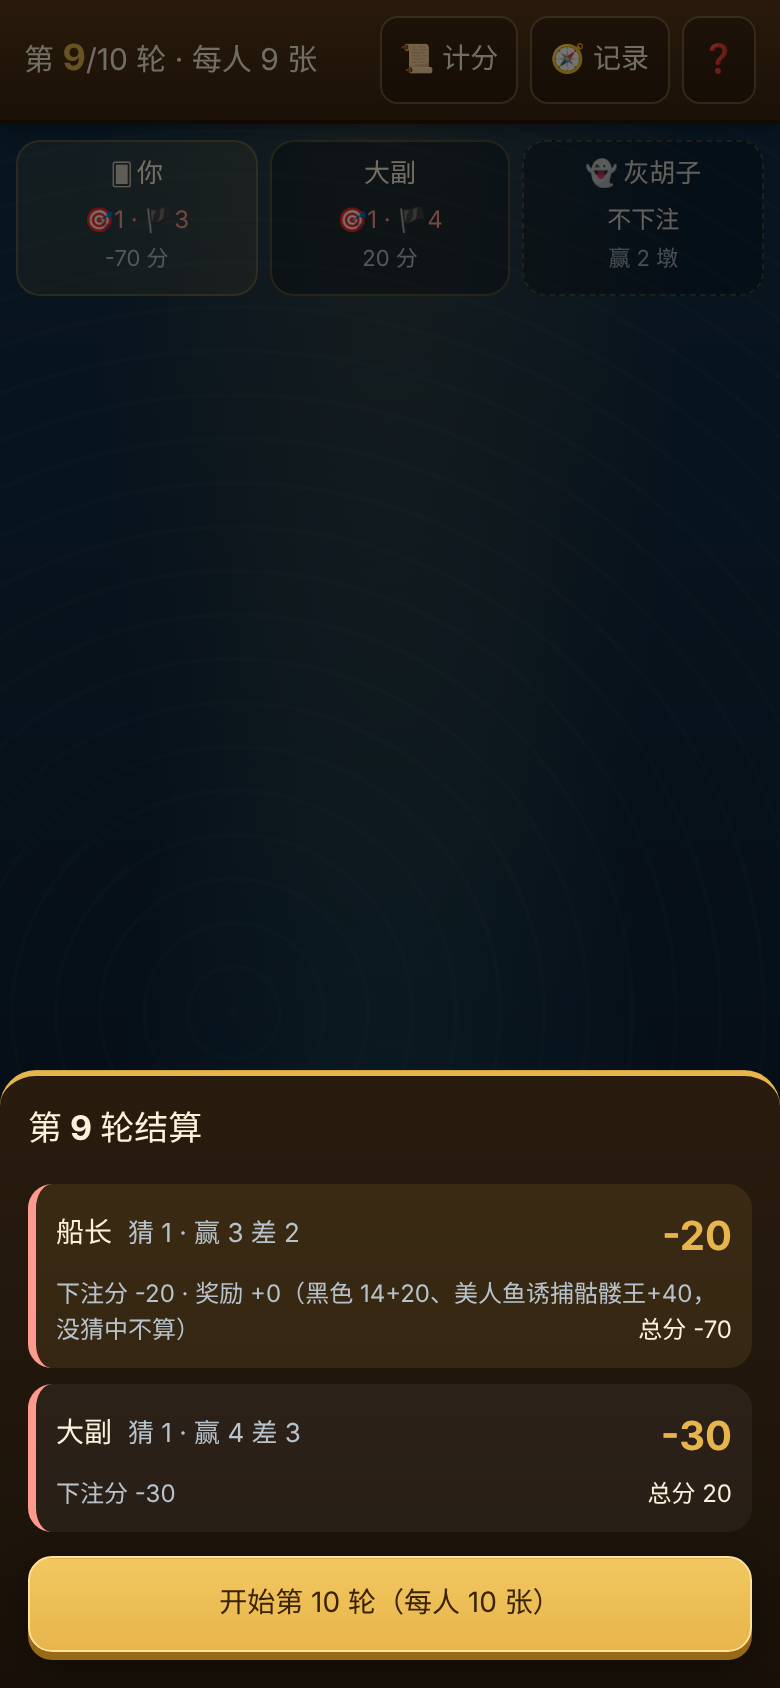
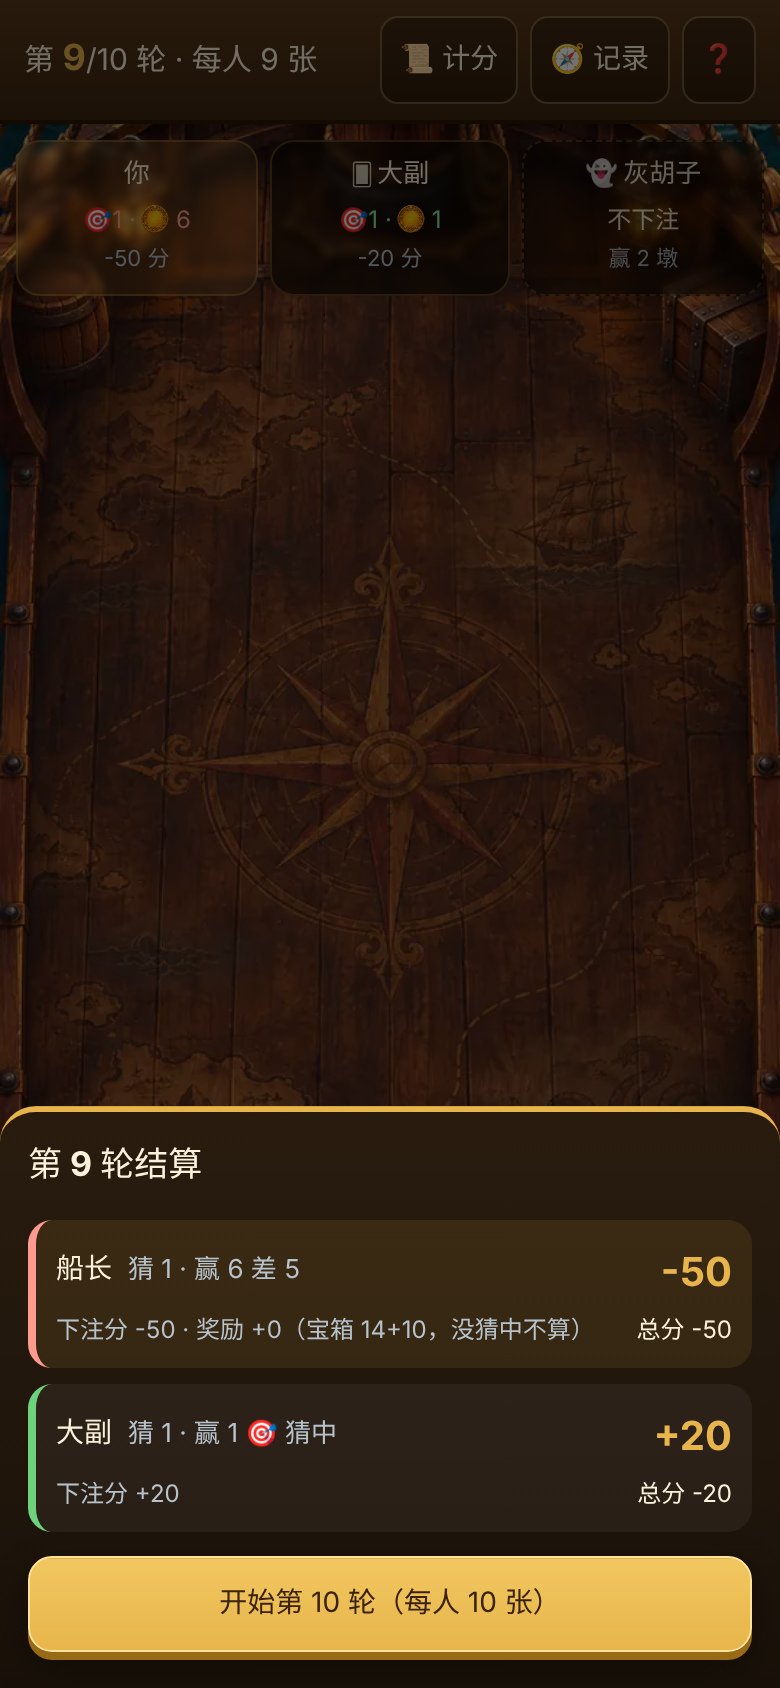
骷髅王：接入 Codex 第二批美术（桌面背景、牌背、大厅封面、下注金币、墩数图标、奖励徽章、克制图、克拉肯/白鲸/金币/亮注动画、美人鱼横幅、胜利画面）并修手机布局
Claude-Session: https://claude.ai/code/session_01D4Ygyof1YC3PxstBDzFQZk

diff --git a/apps/web/src/sk/SkullKing.tsx b/apps/web/src/sk/SkullKing.tsx
@@ -36,6 +36,30 @@ const storage = {
 const SUIT_ICON: Record<Suit, string> = { green: "🦜", purple: "🗺", yellow: "💰", black: "☠" };
 const KIND_ICON: Record<string, string> = { escape: "🏳", pirate: "🏴☠", tigress: "🐯", king: "👑", mermaid: "🧜♀", kraken: "🐙", whale: "🐋", loot: "🪙" };
 
+/* ---------------- 动画帧 ---------------- */
+const ASSET = "/assets/skullking/";
+const frames = (name: string, n: number) => Array.from({ length: n }, (_, i) => `${ASSET}${name}-${String(i).padStart(2, "0")}.webp`);
+const FX = { kraken: frames("fx/kraken", 16), whale: frames("fx/whale", 16), coins: frames("fx/win-coins", 16), reveal: frames("ui/bid-reveal", 12) };
+const preloaded = new Set<string>();
+function preload(list: string[]) {
+  for (const src of list)
+    if (!preloaded.has(src)) {
+      preloaded.add(src);
+      const im = new Image();
+      im.src = src;
+    }
+}
+function Sprite({ list, ms = 50, className, hold = true }: { list: string[]; ms?: number; className?: string; hold?: boolean }) {
+  const [i, setI] = useState(0);
+  useEffect(() => {
+    setI(0);
+    const t = setInterval(() => setI((k) => (k + 1 < list.length ? k + 1 : hold ? k : (clearInterval(t), k))), ms);
+    return () => clearInterval(t);
+  }, [list]);
+  return <img className={className} src={list[i]} alt="" draggable={false} />;
+}
+const BONUS_IMG = new Set([10, 20, 30, 40]);
+
 /* ---------------- 卡牌 ---------------- */
 export function SKCard({ id, as, size = "md", selected, dim, onClick, testid }: { id: number; as?: "pirate" | "escape"; size?: "sm" | "md" | "lg"; selected?: boolean; dim?: boolean; onClick?: () => void; testid?: string }) {
   const c = CARDS[id];
@@ -85,6 +109,7 @@ const RULES = (
       <b>跟色：</b>第一张数字牌决定花色，有这个颜色的数字牌就必须出这个颜色；没有才能出别的颜色。<b>特殊牌随时都能出</b>，不受跟色限制。
     </p>
     <h3>牌的大小</h3>
+    <img className="sk-hier" src="/assets/skullking/ui/hierarchy.webp" alt="克制关系：海盗克美人鱼，美人鱼克骷髅王，骷髅王克海盗" />
     <ul>
       <li>数字牌：鹦鹉🦜、藏宝图🗺、宝箱💰 三色，各 1–14。跟出的颜色里数字大的赢；别的颜色不能赢。</li>
       <li>骷髅旗☠（黑色）是王牌，比其他三色都大。</li>
@@ -351,15 +376,22 @@ function TrickBanner({ r, v, onDone }: { r: TrickResult; v: SKView; onDone: () =
     return () => clearTimeout(t);
   }, [r.no]);
   const total = r.bonus.reduce((a, b) => a + b.pts, 0);
+  const mermaidKing = r.bonus.some((b) => b.label.includes("诱捕"));
   return (
     <div className={`sk-banner${r.destroyed ? " " + r.destroyed : ""}`} onClick={onDone} data-testid="sk-trick-banner">
-      <div className="sk-banner-cards">
-        {r.cards.map((p) => (
-          <div key={p.id} className={`sk-banner-slot${p.seat === r.winner ? " win" : ""}`}>
-            <SKCard id={p.id} as={p.as} size="sm" />
-            <small>{nameOf(v, p.seat)}</small>
-          </div>
-        ))}
+      {mermaidKing && <img className="sk-capture" src="/assets/skullking/fx/mermaid-capture.webp" alt="美人鱼诱捕骷髅王" />}
+      <div className="sk-banner-stage">
+        <div className="sk-banner-cards">
+          {r.cards.map((p) => (
+            <div key={p.id} className={`sk-banner-slot${p.seat === r.winner ? " win" : ""}`}>
+              <SKCard id={p.id} as={p.as} size="sm" />
+              <small>{nameOf(v, p.seat)}</small>
+            </div>
+          ))}
+        </div>
+        {r.destroyed === "kraken" && <Sprite className="sk-fx" list={FX.kraken} />}
+        {r.destroyed === "whale" && <Sprite className="sk-fx" list={FX.whale} />}
+        {!r.destroyed && r.winner !== null && <Sprite className="sk-fx coins" list={FX.coins} hold={false} />}
       </div>
       <div className="sk-banner-text">
         {r.destroyed === "kraken" ? (
@@ -369,11 +401,20 @@ function TrickBanner({ r, v, onDone }: { r: TrickResult; v: SKView; onDone: () =
         ) : (
           <>
             <b>{r.winner === v.me ? "你" : nameOf(v, r.winner)}</b> 赢下第 {r.no} 墩{r.destroyed === "whale" ? "（白鲸：只比数字）" : ""}
-            {total > 0 && <span className="sk-bonus-pop">奖励 +{total}</span>}
           </>
         )}
       </div>
-      {r.bonus.length > 0 && <div className="sk-banner-notes">{r.bonus.map((b) => `${b.label} +${b.pts}`).join(" · ")}（猜中才算）</div>}
+      {r.bonus.length > 0 && (
+        <div className="sk-badges">
+          {r.bonus.map((b, k) => (
+            <span key={k} className="sk-badge-item" style={{ animationDelay: 0.3 + k * 0.15 + "s" }}>
+              {BONUS_IMG.has(b.pts) ? <img src={`/assets/skullking/ui/bonus-${b.pts}.webp`} alt={"+" + b.pts} /> : <i>+{b.pts}</i>}
+              <small>{b.label}</small>
+            </span>
+          ))}
+        </div>
+      )}
+      {total > 0 && <div className="sk-banner-notes">奖励共 +{total}，本轮猜中才算</div>}
     </div>
   );
 }
@@ -385,6 +426,7 @@ function BidReveal({ v, onDone }: { v: SKView; onDone: () => void }) {
   }, []);
   return (
     <div className="sk-reveal" onClick={onDone} data-testid="sk-bid-reveal">
+      <Sprite className="sk-reveal-fx" list={FX.reveal} ms={65} />
       <div className="sk-reveal-title">哟—嗬—嗬！</div>
       <div className="sk-reveal-list">
         {v.players.map((p, i) => (
@@ -462,7 +504,7 @@ function RoundEnd({ room, v, host }: { room: Room; v: SKView; host: boolean }) {
     <Sheet title={fin ? "🏆 航行结束" : `第 ${v.round + 1} 轮结算`}>
       {fin && (
         <div className="sk-final">
-          <div className="sk-crown">👑</div>
+          <img className="sk-victory" src="/assets/skullking/fx/victory.webp" alt="" />
           <div className="sk-final-name">{v.winners.map((i) => v.players[i].name).join("、")}</div>
           <div className="sk-sub">成为七海船长！</div>
           <ol className="sk-rank">
@@ -604,6 +646,9 @@ function Table({ room, v }: { room: Room; v: SKView }) {
   const [bid, setBid] = useState<number | null>(null);
   const seen = useRef({ tricks: v.tricks.length, round: v.round, phase: v.phase });
   useEffect(() => {
+    preload([...FX.coins, ...FX.reveal, ...(v.settings.kraken ? FX.kraken : []), ...(v.settings.whale ? FX.whale : []), ...v.hand.map((id) => `${ASSET}cards/${CARDS[id].key}.webp`)]);
+  }, []);
+  useEffect(() => {
     const p = seen.current;
     if (v.round === p.round && v.tricks.length > p.tricks) setBanner(v.tricks[v.tricks.length - 1]);
     if (v.round !== p.round) setBanner(null);
@@ -666,12 +711,20 @@ function Table({ room, v }: { room: Room; v: SKView }) {
                   <span className={p!.bidDone ? "done" : "think"}>{p!.bidDone ? (i === v.me ? `猜 ${p!.bid}` : "✓ 已下注") : "思考中…"}</span>
                 ) : (
                   <span className={p!.won === p!.bid ? "ok" : p!.won > (p!.bid ?? 0) ? "over" : ""}>
-                    🎯{p!.bid} · 🏴{p!.won}
+                    🎯{p!.bid} · <img className="sk-coin" src="/assets/skullking/ui/tricks-coin.webp" alt="赢" />
+                    {p!.won}
                     {p!.shot === "cannon" ? "💣" : ""}
                   </span>
                 )}
               </div>
-              <div className="sk-pl-score">{ghost ? `赢 ${v.ghost!.won} 墩` : `${p!.score} 分`}</div>
+              <div className="sk-pl-score">
+                {ghost ? `赢 ${v.ghost!.won} 墩` : `${p!.score} 分`}
+                {i !== v.me && (ghost ? v.ghost!.handCount : p!.handCount) > 0 && (
+                  <span className="sk-backs">
+                    <img src="/assets/skullking/cards/back.webp" alt="" />×{ghost ? v.ghost!.handCount : p!.handCount}
+                  </span>
+                )}
+              </div>
               <div className="sk-pl-slot">{slotFor(i) ? <SKCard id={slotFor(i)!.id} as={slotFor(i)!.as} size="sm" /> : turn ? <span className="sk-wait">⏳</span> : null}</div>
             </div>
           );
@@ -707,8 +760,8 @@ function Table({ room, v }: { room: Room; v: SKView }) {
             <div className="sk-hint">你觉得这一轮能赢几墩？</div>
             <div className="sk-bid-grid">
               {Array.from({ length: v.cards + 1 }, (_, k) => (
-                <button key={k} className={`sk-bid-btn${bid === k ? " on" : ""}`} onClick={() => setBid(k)} data-testid={`sk-bid-${k}`}>
-                  {k}
+                <button key={k} className={`sk-bid-btn${bid === k ? " on" : ""}`} onClick={() => setBid(k)} data-testid={`sk-bid-${k}`} aria-label={`${k} 墩`}>
+                  <img src={`/assets/skullking/ui/bid-${k}.webp`} alt="" />
                 </button>
               ))}
             </div>

diff --git a/apps/web/src/GameLobby.tsx b/apps/web/src/GameLobby.tsx
@@ -41,7 +41,7 @@ export function GameLobby() {
         <GameBox id="ta" title="我们之中的威胁" sub="隐藏身份 · 太空求生" meta="4–8 人 · 隐藏身份" blurb="飞船失去动力，氧气一格格流失。大家暗中出牌修船，内鬼却在其中破坏。" art={<img src="/assets/menace/box.webp" alt="我们之中的威胁 封面" style={{width:"100%",height:"100%",objectFit:"cover"}}/>} online="/?game=ta" join={code=>"/?game=ta&room="+code.toUpperCase()}/>
         <GameBox id="kb" title="卡里巴湖 Kariba" sub="Reiner Knizia" meta="2–5 人 · 组队最多 8 人" blurb="凑满三只同种动物，就能把水塘边较小的动物赶跑收走。只有老鼠吓得跑大象。" art={<img src="/assets/kariba/box.webp" alt="卡里巴湖 原创封面" style={{width:"100%",height:"100%",objectFit:"contain"}}/>} online="/?game=kb" join={code=>"/?game=kb&room="+code.toUpperCase()}/>
         <GameBox id="nd" title="脑洞量表 Top Ten" sub="Cocktail Games · Aurélien Picolet" meta="4–9 人 · 合作" blurb="一个数字，一张答题卡。队长看卡把大家从小到大排好，一起闯过五轮。" art={<img src="/assets/naodong-scale/box.webp" alt="脑洞量表 Top Ten 官方包装" style={{height:"130px",maxWidth:"100%",objectFit:"contain"}}/>} online="/?game=nd" join={code=>"/?game=nd&room="+code.toUpperCase()}/>
-        <GameBox id="sk" title="骷髅王 Skull King" sub="Grandpa Beck's · 海盗猜墩" meta="2–8 人 · 约 30 分钟 · 新游戏" blurb="每轮先猜自己能赢几墩，正好猜中才得分。海盗压数字、骷髅王压海盗、美人鱼诱捕骷髅王——还能加克拉肯、白鲸和海盗技能。" art={<span className="sk-hall-cover"><span>💀</span><b>骷髅王</b></span>} online="/?game=sk" join={code=>"/?game=sk&room="+code.toUpperCase()}/>
+        <GameBox id="sk" title="骷髅王 Skull King" sub="Grandpa Beck's · 海盗猜墩" meta="2–8 人 · 约 30 分钟 · 新游戏" blurb="每轮先猜自己能赢几墩，正好猜中才得分。海盗压数字、骷髅王压海盗、美人鱼诱捕骷髅王——还能加克拉肯、白鲸和海盗技能。" art={<img src="/assets/skullking/board/cover.webp" alt="骷髅王 封面" style={{width:"100%",height:"100%",objectFit:"cover"}}/>} online="/?game=sk" join={code=>"/?game=sk&room="+code.toUpperCase()}/>
         <GameBox id="du" title="反转王牌 Dnup" sub="Kei Kajino · 爬梯出牌" meta="2–6 人 · 约 15 分钟 · 新游戏" blurb="每张牌上下两个数字，牌一回到手里就反转。压过别人、往对手牌组里塞一张、拿走整组或整手翻转——最先出完手牌的人得分。" art={<img className="dnup-hall-cover" src="/assets/dnup/cover.webp" alt="" />} online="/?game=du" join={code=>"/?game=du&room="+code.toUpperCase()}/>
         <GameBox id="ss" title="汽水走私犯 Soda Smugglers" sub="官方桌游 · Reiner Knizia" meta="3–8 人 · 受贿与推理" blurb="秘密装好手提箱，和缉私警长斗智，带着汽水顺利过关。" art={<img src="/assets/soda-smugglers/box-logo.webp" alt="汽水走私犯官方包装及标志" style={{width:"100%",height:"100%",objectFit:"contain"}}/>} online="/?game=ss" join={code=>"/?game=ss&room="+code.toUpperCase()}/>
         <GameBox id="rk" title="拉密 Rummikub" sub="The Original · Classic / XP" meta="2–6 人 · 数字组合" blurb="同色连成顺子，同数凑成一组。拆开桌面的可能，把手中的牌全部打出去。" art={<span style={{display:'flex',height:'100%',gap:12,alignItems:'center',background:'#1f4d3a',borderRadius:8,padding:8}}><img src="/assets/rummikub/box-classic.webp" alt="官方 Classic 包装" style={{height:76,width:105,objectFit:'contain'}}/><img src="/assets/rummikub/logo.webp" alt="Rummikub" style={{width:150,maxWidth:'45%'}}/></span>} online="/?game=rk" join={code=>'/?game=rk&room='+code.toUpperCase()}/>

diff --git a/apps/web/src/sk/skull-king.css b/apps/web/src/sk/skull-king.css
@@ -234,3 +234,34 @@ button.sk-card { cursor: pointer; }
 .sk-card.suit-purple .sk-badge { background: #55308a; }
 .sk-card.suit-yellow .sk-badge { background: #9a6a00; }
 .sk-card.suit-black .sk-badge { background: #111; color: #f3d27a; }
+
+/* 美术接入 */
+.sk-table { background: url(/assets/skullking/board/deck.webp) center top / cover no-repeat fixed, var(--sk-sea); }
+.sk-bid-btn { padding: 0; border: 0; background: none; box-shadow: none; border-radius: 50%; }
+.sk-bid-btn img { width: 100%; height: 100%; display: block; filter: drop-shadow(0 3px 2px rgba(0, 0, 0, 0.5)); }
+.sk-bid-btn.on { box-shadow: 0 0 0 3px #fff, 0 0 18px rgba(232, 182, 76, 0.9); }
+.sk-coin { width: 15px; height: 15px; vertical-align: -3px; margin-right: 1px; }
+.sk-backs { display: inline-flex; align-items: center; gap: 1px; margin-left: 5px; }
+.sk-backs img { width: 10px; height: 14px; border-radius: 2px; }
+.sk-hier { display: block; width: 100%; max-width: 360px; margin: 6px auto; border-radius: 12px; }
+.sk-banner-stage { position: relative; display: grid; place-items: center; min-height: 150px; width: 100%; }
+.sk-fx { position: absolute; width: min(92vw, 420px); pointer-events: none; }
+.sk-fx.coins { mix-blend-mode: screen; }
+.sk-capture { width: min(94vw, 520px); border-radius: 14px; box-shadow: 0 0 0 2px var(--sk-gold), 0 10px 30px rgba(0, 0, 0, 0.6); animation: sk-win 0.7s ease-out; }
+.sk-badges { display: flex; flex-wrap: wrap; justify-content: center; gap: 10px; }
+.sk-badge-item { display: flex; flex-direction: column; align-items: center; gap: 2px; animation: sk-win 0.6s ease-out backwards; }
+.sk-badge-item img { width: 64px; height: 64px; }
+.sk-badge-item i { font-style: normal; font-size: 22px; font-weight: 900; color: #3b2304; background: radial-gradient(#ffe9a8, #c99329); width: 64px; height: 64px; border-radius: 50%; display: grid; place-items: center; }
+.sk-badge-item small { font-size: 11px; color: var(--sk-mute); max-width: 96px; text-align: center; }
+.sk-reveal-fx { width: min(80vw, 320px); }
+.sk-victory { width: min(70vw, 300px); border-radius: 16px; box-shadow: 0 0 0 2px var(--sk-gold), 0 12px 30px rgba(0, 0, 0, 0.6); animation: sk-win 0.9s ease-out; }
+.sk-pl-bid > span { display: inline-flex; align-items: center; gap: 2px; white-space: nowrap; }
+.sk-victory { width: auto; max-width: 70vw; max-height: 32vh; display: block; margin: 0 auto 6px; }
+.sk-pl { background: rgba(10, 6, 2, 0.62); backdrop-filter: blur(2px); }
+.sk-pl-bid { display: flex; justify-content: center; }
+.sk-pl-bid > span { flex-direction: row !important; }
+.sk-pl-bid img.sk-coin { display: inline-block !important; flex: none; }
+.sk-final { display: flex; flex-direction: column; align-items: center; }
+.sk-final .sk-victory { position: static !important; transform: none; animation: sk-fade 0.6s; height: 180px; max-height: none; width: 100%; max-width: 420px; object-fit: cover; object-position: center 40%; }
+.sk-sheet > * { flex-shrink: 0; }
+.sk-final .sk-rank { width: 100%; align-self: stretch; }

diff --git a/packages/skull-king/src/index.ts b/packages/skull-king/src/index.ts
@@ -55,7 +55,7 @@ defs.push({ id: defs.length, kind: "mermaid", key: "mermaid-2" });
 defs.push({ id: defs.length, kind: "kraken", key: "kraken" });
 defs.push({ id: defs.length, kind: "whale", key: "whale" });
 defs.push({ id: defs.length, kind: "loot", key: "loot" });
-defs.push({ id: defs.length, kind: "loot", key: "loot" });
+defs.push({ id: defs.length, kind: "loot", key: "loot-2" });
 export const CARDS: readonly CardDef[] = defs;
 
 export function cardName(id: number) {
